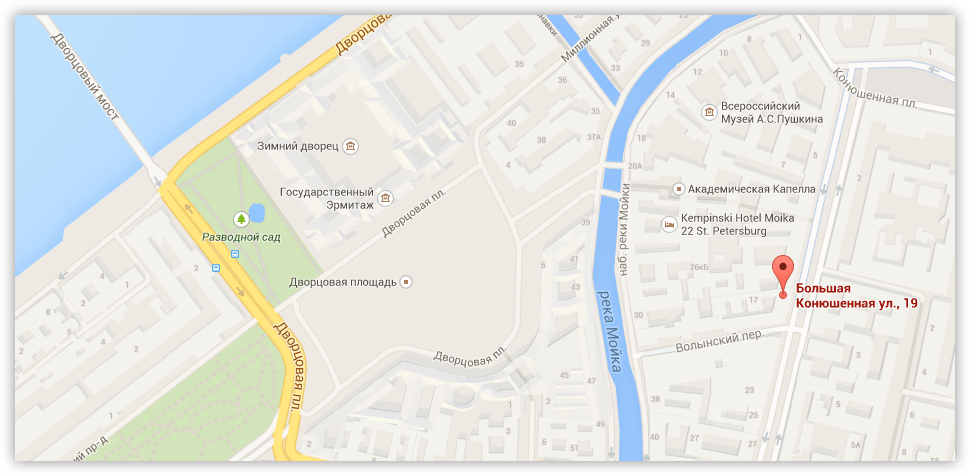
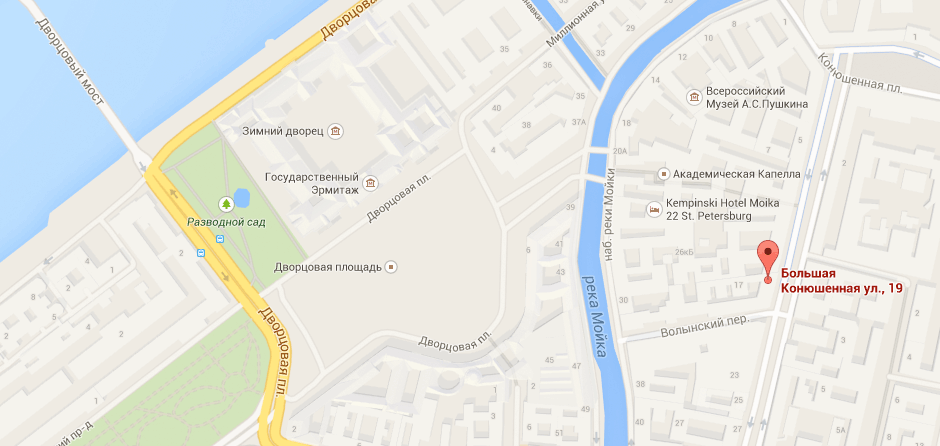
Стилизация модального окна с картой

diff --git a/index.html b/index.html
@@ -374,10 +374,10 @@
 
     <section class="popup popup--map" hidden>
       <h2 class="popup__title visuallyhidden">Карта</h2>
-      <button class="popup-close" type="button" name="map-popup__close">Закрыть</button>
-      <div class="popup__big-map">
-        <a href="https://yandex.ru/maps/-/CKUmzAj1" target="_blank"><img src="./img/map-big.png" width="940" height="446" alt="город Санкт-Петербург, улица Большая Конюшенная, дом 19/8."></a>
-      </div>
+      <button class="popup-close" type="button" name="map-popup__close"><span class="visuallyhidden">Закрыть</span></button>
+      <a href="https://yandex.ru/maps/-/CKUmzAj1" target="_blank">
+        <img src="./img/map-big.png" width="940" height="446" alt="город Санкт-Петербург, улица Большая Конюшенная, дом 19/8.">
+      </a>
     </section>
 
     <section class="popup popup--cart" hidden>

diff --git a/css/style.css b/css/style.css
@@ -1936,7 +1936,6 @@ img {
   line-height: 18px;
   font-weight: 400;
   color: #000000;
-  /* color: #a9a9a9; */
 
   border: 2px solid #dee3e4;
   border-radius: 3px;
@@ -1951,6 +1950,16 @@ img {
 .popup-form__item input::placeholder,
 .popup-form__item textarea::placeholder {
   color: #a9a9a9;
+}
+
+.popup--map {
+  width: auto;
+  border: none;
+
+  line-height: 0;
+
+  -webkit-box-shadow: 0 0 14.72px 1.28px rgba(47, 42, 43, 0.5);
+          box-shadow: 0 0 14.72px 1.28px rgba(47, 42, 43, 0.5);
 }
 
 .popup--visible {
